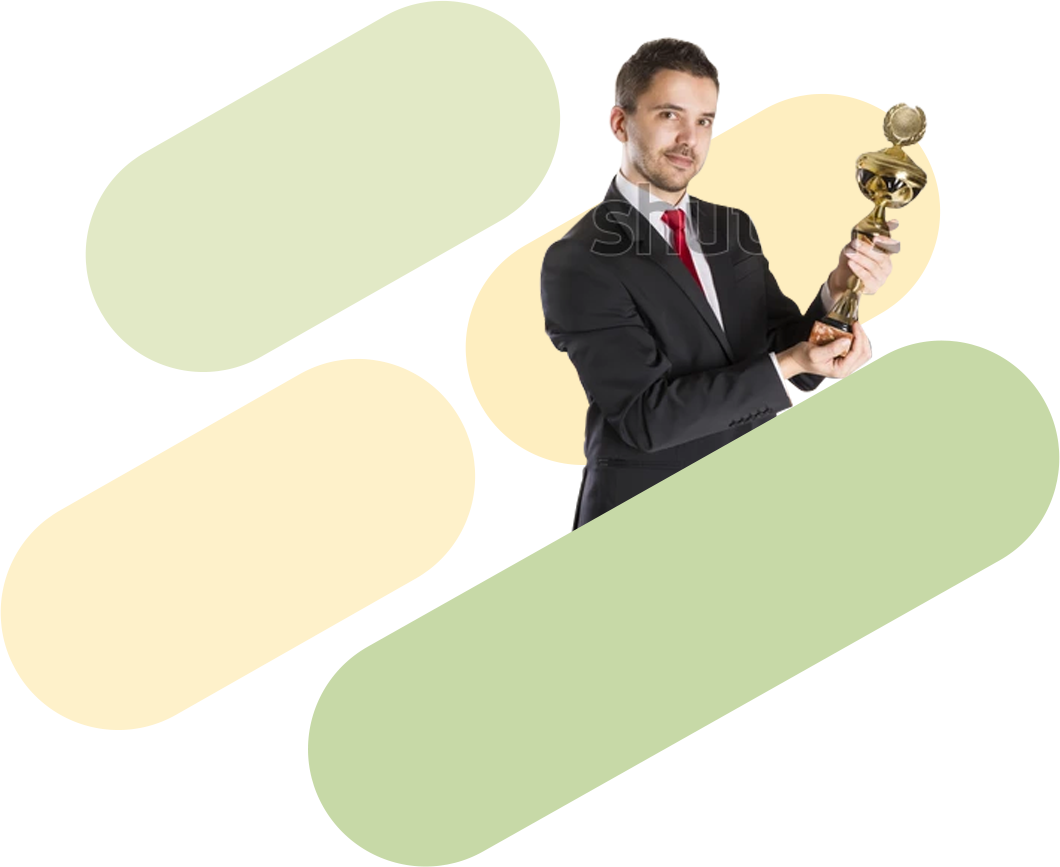
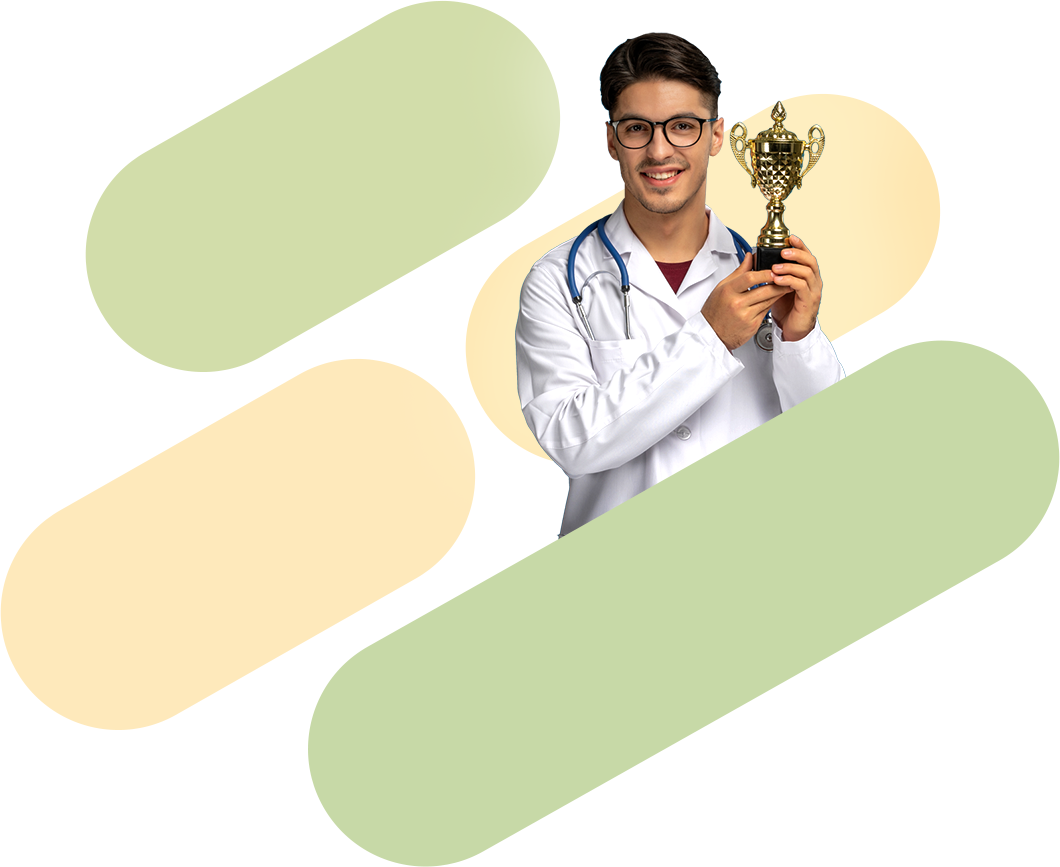
all style changes

Changed region(s): [[0.467, 0.0311, 0.8717, 0.6228], [0.0623, 0.0, 0.4981, 0.436]]

diff --git a/src/app/landing/slide/slide.component.css b/src/app/landing/slide/slide.component.css
@@ -10,8 +10,8 @@
 .slRedBox .round {width: 136px; height: 136px; background: rgba(255,255,255,0.2); position: absolute; right: -37px; bottom: -50px; border-radius: 50%;}
 .slRedBox .roundd {width: 136px; height: 136px; background: rgba(255,255,255,0.2); position: absolute; right: -93px; top: 60px; border-radius: 50%;}
 .slRedBoxText {display: flex; flex-wrap: wrap; height: 146px; align-content: space-between;}
-.slRedBoxText h3 {font-weight: 500; margin: 0; padding: 0; line-height: normal;}
-.slRedBoxText p { font-size: 13px; font-weight: 400; margin: 8px 0 15px; padding: 0 10px 0 0; line-height: normal; display: -webkit-box; -webkit-line-clamp: 3; -webkit-box-orient: vertical; overflow: hidden; }
+.slRedBoxText h3 { font-weight: 500; margin: 0; padding: 0; line-height: normal;}
+.slRedBoxText p { font-size: 13px; font-weight: 400; margin: 8px 0 15px; padding: 0 10px 0 0; line-height: normal; display: -webkit-box; -webkit-line-clamp: 2; -webkit-box-orient: vertical; overflow: hidden; }
 .slRedBoxText span.knMr {
     font-size: 14px;
     font-weight: 600;
@@ -21,8 +21,8 @@
     color: #000;
     font-style: italic;
     position: absolute;
-    left: 18px;
-    bottom: 30px;
+    left: 33px;
+    bottom: 8px;
 }
 .slRedBoxText h2 {font-size: 29px; color: #fff; font-weight: 600; margin: 0; padding: 0; line-height: normal;}
 .slideCart {width: 70px; height: 70px; background-color: #fe346b; border-radius: 50%; border: 4px solid #fff; position: absolute; display: inline-flex; align-items: center; justify-content: center; right: 0; top: -25px; -moz-box-shadow: 0 0 5px rgba(0,0,0,0.3);

diff --git a/src/app/slider/about-menu-slide/about-menu-slide.component.html b/src/app/slider/about-menu-slide/about-menu-slide.component.html
@@ -16,21 +16,21 @@
         </ng-template>   -->
         <ng-template carouselSlide>
             <div class="clse" (click)="aboutUs('value')">
-                <div class="slBgIm"><img src="assets/images/our-mission-menu.png" alt=""></div>
+                <div class="slBgIm"><img src="assets/images/Value.jpg" alt=""></div>
                 <div class="slBgTxt">Our Value</div>
                 <div class="owlWhtArrow"><img src="assets/images/white-menu-arrow.png" alt=""></div>
             </div>
         </ng-template>  
         <ng-template carouselSlide>
             <div class="clse" (click)="aboutUs('mission')">
-                <div class="slBgIm"><img src="assets/images/our-mission-menu.png" alt=""></div>
+                <div class="slBgIm"><img src="assets/images/Mission.jpg" alt=""></div>
                 <div class="slBgTxt">Our Mission</div>
                 <div class="owlWhtArrow"><img src="assets/images/white-menu-arrow.png" alt=""></div>
             </div>
         </ng-template>  
         <ng-template carouselSlide>
             <div class="clse" (click)="aboutUs('vision')">
-                <div class="slBgIm"><img src="assets/images/our-vision-menu.png" alt=""></div>
+                <div class="slBgIm"><img src="assets/images/vission.jpg" alt=""></div>
                 <div class="slBgTxt">Our Vision</div>
                 <div class="owlWhtArrow"><img src="assets/images/white-menu-arrow.png" alt=""></div>
             </div>

diff --git a/src/app/slider/patient-menu-slide/patient-menu-slide.component.html b/src/app/slider/patient-menu-slide/patient-menu-slide.component.html
@@ -2,14 +2,14 @@
     <owl-carousel-o [options]="SlideOptions">
         <ng-template carouselSlide>
             <div class="clse pointer" routerLink="/patient/test-list" >
-                <div class="slBgIm"><img src="assets/images/tst-bk.png" alt=""></div>
+                <div class="slBgIm"><img src="assets/images/Medical Test.jpg" alt=""></div>
                 <div class="slBgTxt">Tests</div>
                 <div class="owlWhtArrow"><a><img src="assets/images/white-menu-arrow.png" alt=""></a></div>
             </div>
         </ng-template>  
         <ng-template carouselSlide>
             <div class="clse pointer" routerLink="/patient/package-list">
-                <div class="slBgIm"><img src="assets/images/package-bk.png" alt=""></div>
+                <div class="slBgIm"><img src="assets/images/Packages.jpg" alt=""></div>
                 <div class="slBgTxt">Packages</div>
                 <div class="owlWhtArrow"><a><img src="assets/images/white-menu-arrow.png" alt=""></a></div>
             </div>

diff --git a/src/app/landing/slide/slide.component.html b/src/app/landing/slide/slide.component.html
@@ -48,7 +48,7 @@
                                             class="badge badge-success"> Yes</span></h4>
                                             <h4>Parameters Covered: {{pakg.total_parameters}}</h4>
                                             <details *ngFor="let test of pakg['parameters']">
-                                                <summary>{{test.test_name}} <b>{{test.parameters.length}}</b></summary>
+                                                <summary>{{test.test_name}} - {{test.parameters.length}}</summary>
                                                 
                                         <small class="ml-2"
                                             *ngFor="let para of test.parameters">{{para.parameter_name}}

diff --git a/src/app/science/encyclopedia/encyclopedia.component.css b/src/app/science/encyclopedia/encyclopedia.component.css
@@ -1,5 +1,5 @@
 .meMain {overflow-x: hidden;}
-.teamTop {padding: 225px 70px 0; background: url(src/assets/images/medical-encyclo.png) 110% 125px no-repeat; background-size: 620px;}
+.teamTop {padding: 225px 70px 0; background: url(src/assets/images/Medical-Enc.png) 110% 125px no-repeat; background-size: 620px;}
 .teamTopInner {max-width: 730px; position: relative; z-index: 2; margin-left: 44px;}
 .teamTop h1{ font-size: 40px; color: #5d7532; font-weight: 600; margin: 0; padding: 0; font-family: 'Poppins', sans-serif;}
 .teamTop h1 span {color: #d19e12; font-weight: 400;}

diff --git a/src/app/blog-post/bloggr-slider/bloggr-slider.component.html b/src/app/blog-post/bloggr-slider/bloggr-slider.component.html
@@ -1,5 +1,6 @@
 
 <div class="blgSlide">
+    <div class="most-view-outer"> <div class="most-view"><a href="#">Related Blogs</a></div></div>
     <owl-carousel-o [options]="blgSlideOption">
         <ng-template carouselSlide>
             <div class="blgBox">
@@ -38,5 +39,4 @@
             </div>
         </ng-template>
     </owl-carousel-o>
-    <div class="most-view-outer"> <div class="most-view"><a href="#">Related News</a></div></div>
 </div>

diff --git a/src/styles.css b/src/styles.css
@@ -557,6 +557,10 @@ h1 {font-family: 'Arima Madurai', cursive;}
 .journeyOut .journeySec h2 {line-height: normal !important;}
 .tlMiddleBr.fxd .owl-carousel .owl-item .tlBrBoxRndInner img { max-width: 70px; max-height: 40px; }
 
+.slBgIm {
+  border-radius: 20px;
+  overflow: hidden;
+}
 
 @media(max-width: 1850px){
   .stpRow .mat-expansion-panel-body p { width: 100%; position: relative; z-index: 1; margin-top: 15px; }

diff --git a/src/app/blog-post/blog-slider/blog-slider.component.html b/src/app/blog-post/blog-slider/blog-slider.component.html
@@ -1,4 +1,5 @@
 <div class="blgSlide">
+    <div class="most-view"><a href="">Most Viewed</a></div>
     <owl-carousel-o [options]="SlideOptions">
         <ng-template carouselSlide>
             <div class="blgBox">
@@ -37,5 +38,5 @@
             </div>
         </ng-template>
     </owl-carousel-o>
-    <div class="most-view"><a href="">Most Viewed</a></div>
+
 </div>

diff --git a/src/app/patient/package-details/package-details.component.html b/src/app/patient/package-details/package-details.component.html
@@ -15,7 +15,7 @@
     <div class="tdMid">
         <div class="tdMidContainer">
             <div class="tdMidTop">
-                <h2>{{details?.testname}}</h2>
+                <h2>{{details?.packagename}}</h2>
                 <div class="tstPriceSec">
                     <!-- <div class="tstPrice">
                         <p>₹ 500/-</p>
